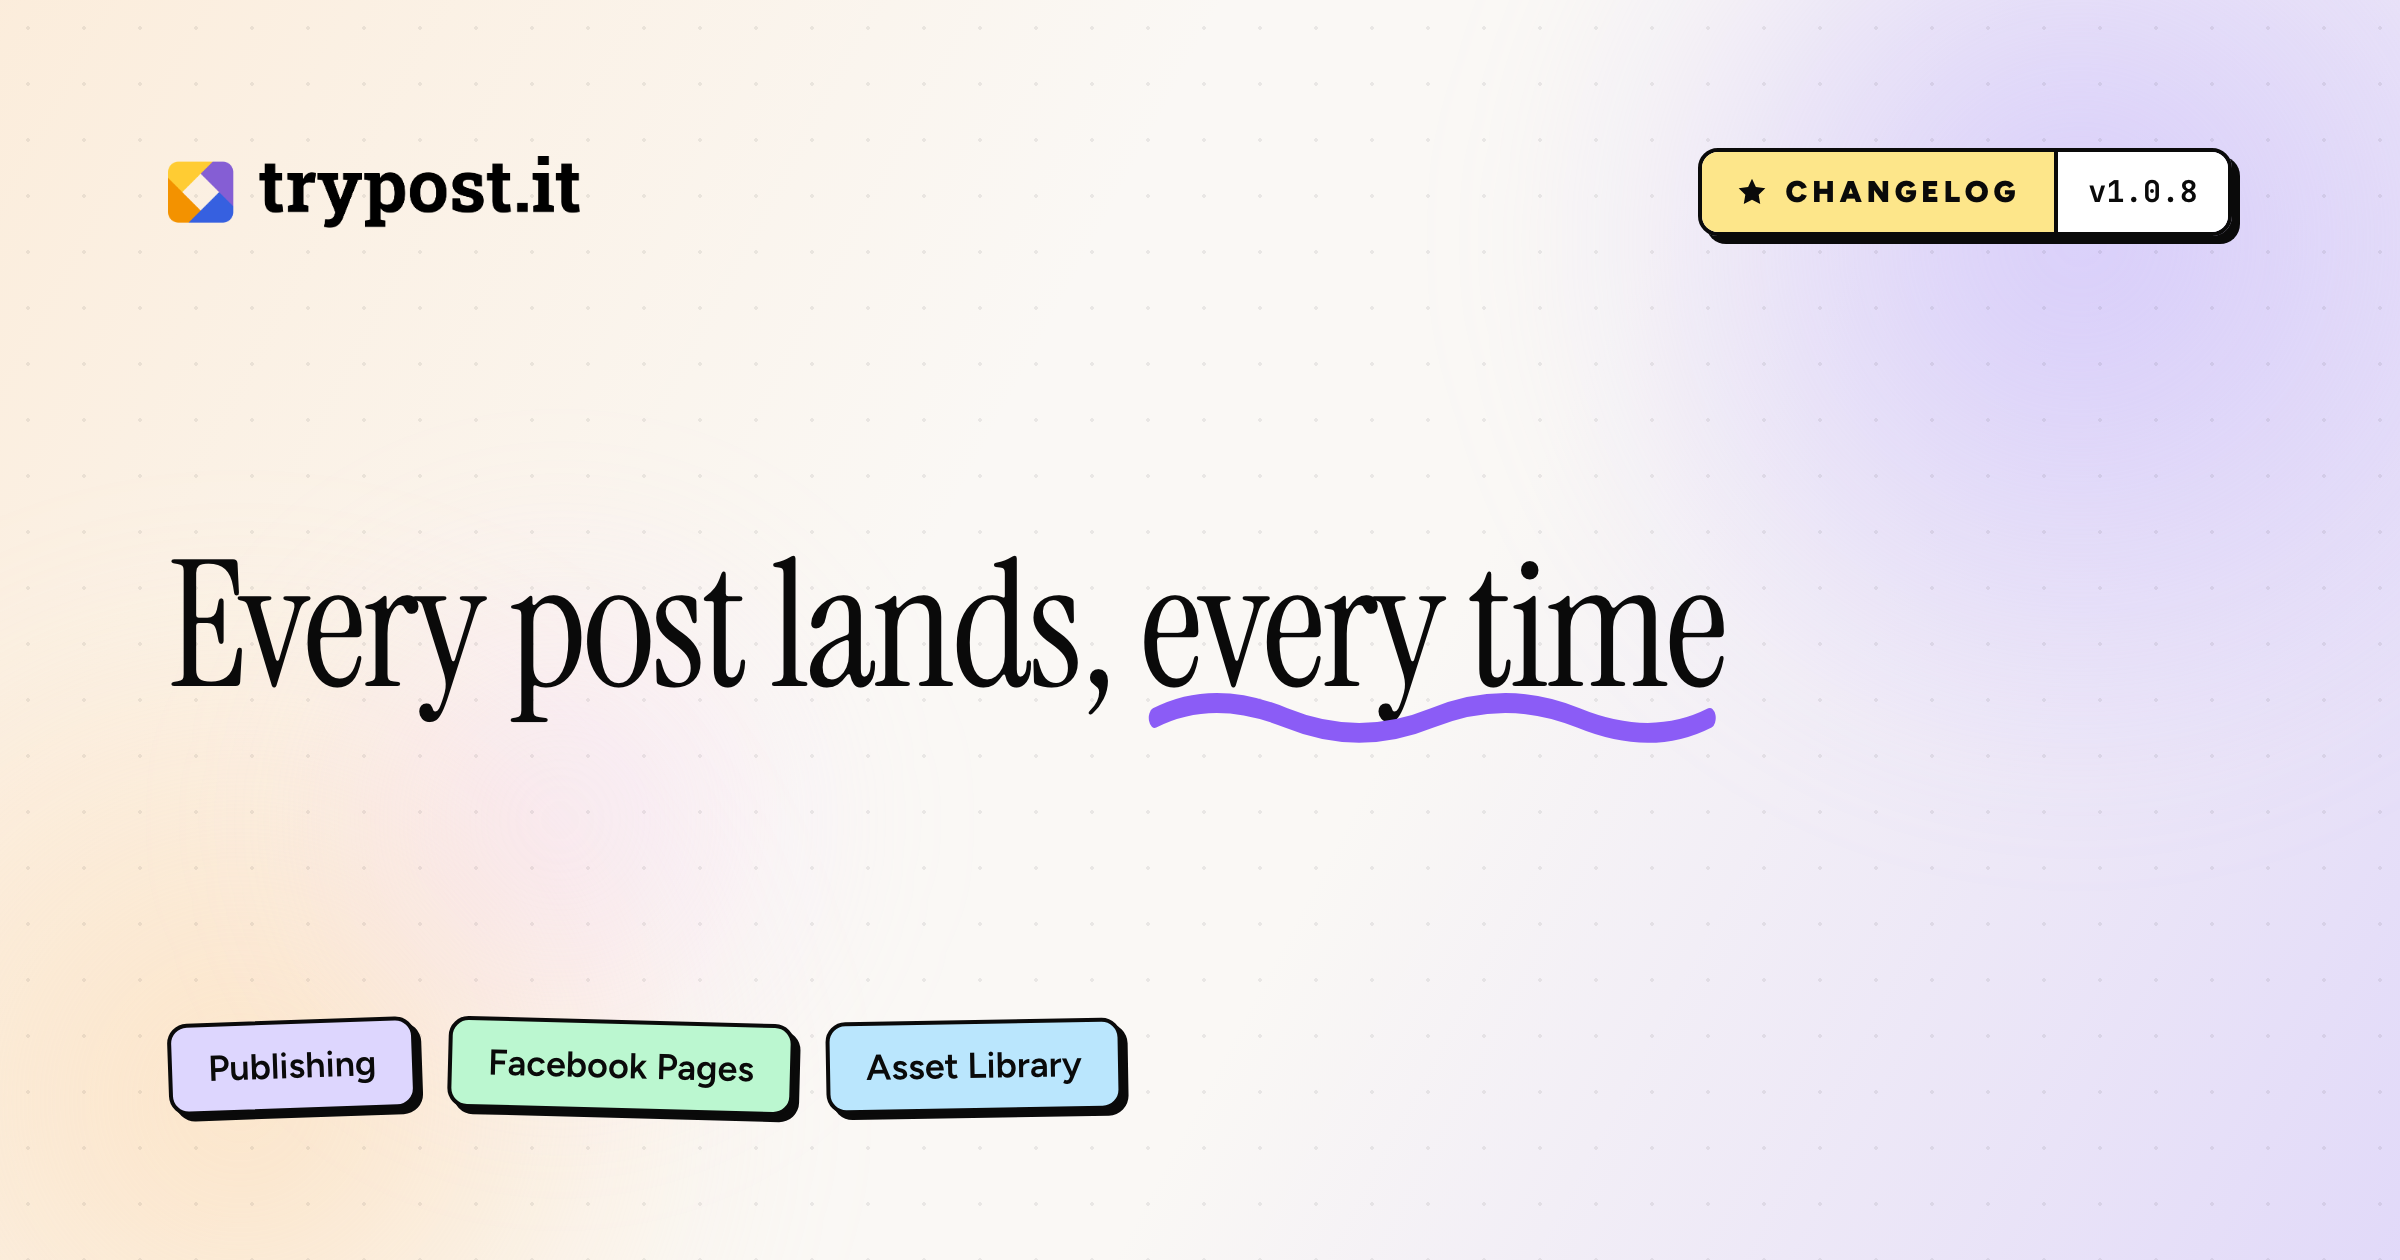
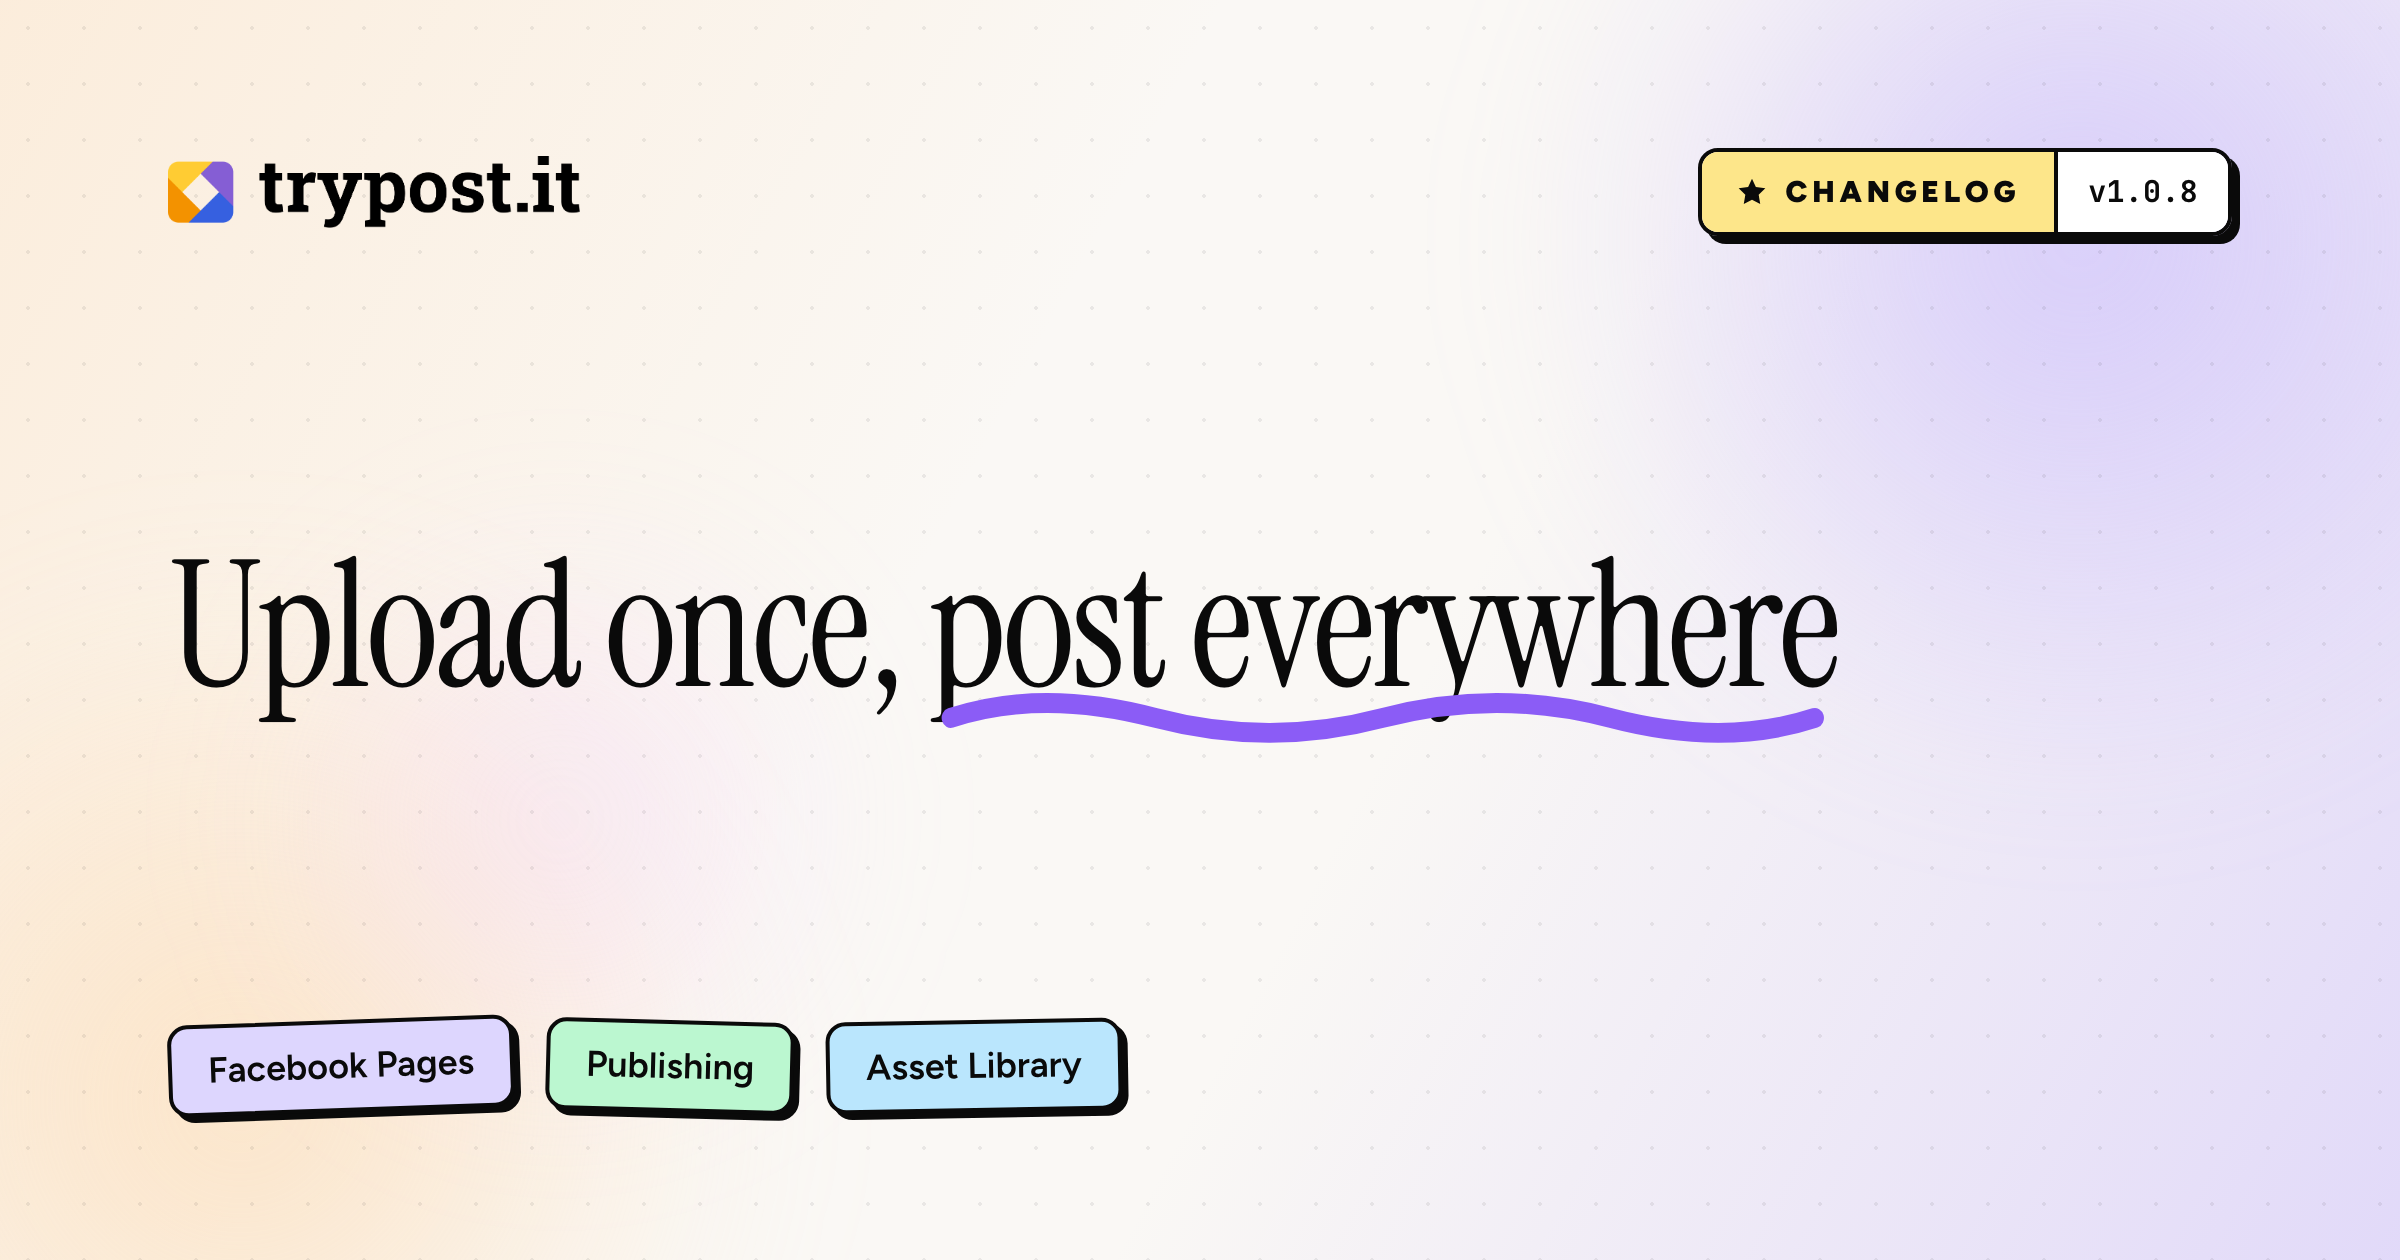
chore(release): sharpen the v1.0.8 email and encode the rules in /release
The subject and section headers named areas (Facebook Pages, Asset
Library) instead of what got better, so a subscriber could not tell
from the inbox what the release did for them.

- Lead on the widest-reach change (Business Portfolio Pages) rather
  than the newest one, and match the section order to the subject
- Say plainly that Asset Library reuse is new for the API and MCP
  only, since the in-app path already worked
- Drop the four bullets that repeated a theme section verbatim
- Reorder the thumbnail chips to follow the sections

.claude/commands/release.md carries the same rules so the next release
starts there: subject pattern, ordering by reach, the already-existed-
in-app trap, header wording, and no duplication between prose and lists.

Changed region(s): [[0.0625, 0.4333, 0.7812, 0.5881], [0.0938, 0.8048, 0.3125, 0.8976]]

diff --git a/.claude/commands/release.md b/.claude/commands/release.md
@@ -90,24 +90,24 @@ Read the commits only as **internal source material**. Translate to user-facing 
 
 ```markdown
 ---
-subject: "Changelog <version> — <theme 1>, <theme 2>, <theme 3>..."
+subject: "Changelog <version> — <improvement 1>, <improvement 2> and more..."
 ---
 
-# Changelog <version> — <theme 1>, <theme 2>, <theme 3>...
+# Changelog <version> — <improvement 1>, <improvement 2> and more...
 
 By TryPost Product Team • [Release <version>](https://github.com/<OWNER>/<REPO>/releases/tag/<version>)
 
 Hello! Welcome to this week's update. Here's what's new in TryPost.
 
-## <Theme 1>
+## <Outcome the reader gets, or the symptom that is gone>
 
-<2-4 sentences of concrete narrative — what changed, why a user should care, what they'll notice. No marketing puffery.>
+<2-4 sentences of concrete narrative — what changed, why a user should care, what they'll notice. Open on what the reader experienced ("you may have watched it go out twice"), not on the internal cause. No marketing puffery.>
 
-## <Theme 2>
+## <second outcome>
 
 <same>
 
-## <Theme 3 — only if there are genuinely 3 themes worth of work>
+## <third outcome — only if there are genuinely 3 themes worth of work>
 
 <same>
 
@@ -134,6 +134,17 @@ You're receiving this because you subscribed.
 
 **Always end with the unsubscribe footer** — the `---` separator, the "You're receiving this because you subscribed." line, and an `[Unsubscribe]({{unsubscribe_url}})` link below the signature. Keep `{{unsubscribe_url}}` as a literal placeholder; the email sending tool fills it in. This footer is required on every customer email.
 
+#### Section headers
+
+A theme header names the outcome the reader gets or the symptom that is gone. Sentence case. It has to make sense to someone who never saw the bug report.
+
+- ❌ `## Publishing that finishes what it started` (writerly; says nothing concrete)
+- ❌ `## Your Asset Library, from anywhere` (area label dressed up)
+- ✅ `## Your long videos stop posting twice`
+- ✅ `## The Facebook Pages that wouldn't connect`
+
+**Section order must match the subject order.** The subject promises a sequence. A reader who opens on a different topic than the one that got them to click feels the mismatch even if they can't name it.
+
 #### Theme grouping (AI clusters by user impact)
 
 Read all commits since the last tag and cluster into **2-3 user-facing themes**. Use whatever frame makes the changes feel coherent to a customer, not to a developer.
@@ -152,6 +163,10 @@ Read all commits since the last tag and cluster into **2-3 user-facing themes**.
 
 If there are fewer than 3 themeable groups, use 2 or just 1. Don't pad. Internal-only changes (chore, CI, refactor, deps) usually shouldn't appear at all — fold the user-visible ones into "Fixes" with a user-voice rewrite, drop the rest.
 
+**Order themes by reach, not by newness.** The first theme goes to whatever the largest share of subscribers will actually feel. A fix that unblocks a whole platform for everyone who uses it outranks a feature only integrators can reach, even though the feature is the newer work. Rank by how many people were affected.
+
+**Check who a theme really reaches before you headline it.** Exposing an existing in-app capability over the API or MCP is new for integrators only — everyone else already had it in the UI. Headlining it as if the capability itself were new misleads the majority. Either qualify the section in its first sentence ("If you build against the TryPost API or connect an AI assistant...") and say plainly that the in-app path already worked, or demote it under a theme with broader reach.
+
 #### Bullet rules for "New features" / "Fixes"
 
 Rewrite each item in **user voice**, not commit voice:
@@ -167,13 +182,25 @@ Rewrite each item in **user voice**, not commit voice:
 
 If a commit has no user-visible effect, **omit it**. Don't pad the email.
 
+**Never repeat a theme section in the bullets.** "New features" and "Fixes" are for what did *not* earn its own section. If duplicate Instagram posts got three paragraphs above, they don't also get a bullet — the reader meets the same fact twice and the lists stop being scannable. Write the sections first, then list only what is left over.
+
 #### Subject line
 
-Pattern: `Changelog <version> — <theme 1>, <theme 2>, <theme 3>...`
+Pattern: `Changelog <version> — <improvement 1>, <improvement 2> and more...`
 
-Don't put "TryPost" in the subject — the email already comes from the TryPost sender, so it's redundant.
+Each slot must name **what got better for the reader**, never the area it happened in. The area is where the work landed; the improvement is what they can now do, or what stopped hurting. A subject built from area labels tells a customer nothing — they already know TryPost has an Asset Library.
 
-Cap around 80 chars. If themes don't fit, shorten to the 2 most impactful + "and more...".
+- ❌ `Changelog v1.0.8 — Publishing that finishes, Facebook Pages, Asset Library` (a writerly abstraction plus two bare area labels)
+- ❌ `Changelog v1.0.8 — No duplicate posts, Facebook Pages that connect` (still abstract: "no duplicate posts" reads like a new dedup feature rather than a fix, and the second half is awkward)
+- ✅ `Changelog v1.0.8 — Facebook Pages finally connect, reuse your media and more...`
+
+Rules:
+
+- **Two named improvements plus `and more...` beats three cramped ones.** The trailing `and more...` carries the rest of the release and buys the two named slots enough room to be specific.
+- **The first slot goes to the widest reach.** Same ranking as the themes: most subscribers affected wins, even when that is a bug fix and the release also shipped a shiny feature.
+- Plain words like `finally`, `stop`, `no longer` are good — they read as an honest founder, not a marketer.
+- Don't put "TryPost" in the subject — the email already comes from the TryPost sender, so it's redundant.
+- Cap around 80 chars.
 
 ### Step 5 — Humanize the email prose
 
@@ -199,7 +226,7 @@ Derive these inputs from the release. The **headline and the chips play differen
   - ❌ `Your language, mobile, and per-image alt text` (this is just the chip labels)
   - ✅ `Speak every language, reach every reader` (benefit-driven, distinct from the chips)
 - **underline** — a short emphasis phrase *inside* the headline (1-3 words) to carry the hand-drawn violet squiggle, usually the last / most important phrase (e.g. `every reader`). Must appear in the headline verbatim. Optional; omit for no squiggle.
-- **themes** — 2-4 short chip labels naming the concrete areas that shipped, condensed to 1-2 words each (e.g. `Languages`, `Mobile`, `Alt text & previews`). These are secondary supporting labels, rendered smaller than the headline; the template auto-colors them (violet / green / sky / orange / rose, in order). Keep them concrete and distinct from the headline's wording.
+- **themes** — 2-4 short chip labels naming the concrete areas that shipped, condensed to 1-2 words each (e.g. `Languages`, `Mobile`, `Alt text & previews`). These are secondary supporting labels, rendered smaller than the headline; the template auto-colors them (violet / green / sky / orange / rose, in order). Keep them concrete and distinct from the headline's wording. **Order the chips to match the email's section order**, so the image and the email tell the story in the same sequence. Chips are the one place a bare area label is correct: the headline sells the benefit, the chips name where it landed.
 
 Create the directory and render the thumbnail so the user can preview it before confirming:
 

diff --git a/releases/v1.0.8/email.md b/releases/v1.0.8/email.md
@@ -1,46 +1,43 @@
 ---
-subject: "Changelog v1.0.8 — Publishing that finishes, Facebook Pages, Asset Library"
+subject: "Changelog v1.0.8 — Facebook Pages finally connect, reuse your media and more..."
 ---
 
-# Changelog v1.0.8 — Publishing that finishes, Facebook Pages, Asset Library
+# Changelog v1.0.8 — Facebook Pages finally connect, reuse your media and more...
 
 By TryPost Product Team • [Release v1.0.8](https://github.com/trypostit/trypost/releases/tag/v1.0.8)
 
 Hello! Welcome to this week's update. Here's what's new in TryPost.
 
-## Publishing that finishes what it started
+## The Facebook Pages that wouldn't connect
 
-Instagram and TikTok process video in the background, and sometimes they take longer than one publish attempt can wait around for. That could end badly: the same video posted twice, or a TikTok marked as done before TikTok had actually finished with it.
+If you administer a Facebook Page through a Business Portfolio rather than holding a direct role on the Page itself, which is how most Pages work these days, TryPost used to tell you it found no Pages at all. It was asking Facebook the wrong question. It now checks your Business Portfolio too, so those Pages show up in the picker with the rest.
 
-TryPost now saves its place. A retry picks up the upload already in progress instead of starting a second one, and Instagram waits for the platform to confirm the post is ready before publishing it. Threads had a cousin of this bug, where media reports as missing for a second or two right after processing; we retry that now instead of giving up. Bluesky also checks in less often during long transcodes.
+The connect window also stopped guessing when it can't offer you a Page. It tells you which of the four things happened: you have no Pages, you have Pages you can't post to, you declined a permission we need, or we couldn't finish reading the list.
 
-## The Facebook Pages you couldn't connect
+## Your long videos stop posting twice
 
-If you administer a Facebook Page through a Business Portfolio instead of holding a direct role on the Page itself, which is how most Pages work these days, TryPost used to tell you it found no Pages at all. It was asking Facebook the wrong question.
+If you sent a long video to Instagram or TikTok, you may have watched it go out twice, or seen TikTok report the post as done before the upload had actually finished. Both platforms process video in the background, and that takes longer than one publish attempt waits around for.
 
-It now checks your Business Portfolio too, so those Pages turn up in the picker with the rest. The connect window is also more honest when it comes up short: it tells you whether you have no Pages, Pages you can't post to, a permission you declined, or a list we couldn't finish reading.
+TryPost now saves its place. When a publish gets retried, it picks up the upload already in progress instead of starting a second one, so nothing goes out twice. Instagram waits for confirmation that the post is ready before publishing it. Threads had a cousin of this bug, where media reports as missing for a second or two right after it uploads fine; we retry that now instead of giving up.
 
-## Your Asset Library, from anywhere
+## Reuse your media over the API
 
-Your workspace's Asset Library is now reachable over the API and through AI assistants connected to TryPost. You can list what's in there, preview a file, and attach something you've already uploaded to a draft or scheduled post. You don't have to re-upload a file you gave us last month.
+If you build against the TryPost API or connect an AI assistant to your workspace, your Asset Library is now reachable from both. You can list what's in there, preview a file, and attach it to a draft or scheduled post without uploading the same image a second time. Inside the app this already worked; now your integrations get it too.
 
 ## New features
 
-- Browse, preview, and attach Asset Library files over the API and via connected AI assistants
 - Connect your first social account during signup, before you reach checkout
+- Browse, preview, and attach Asset Library files over the API and through connected AI assistants
 - Self-hosted: connect more than one account per network by setting `ALLOW_MULTIPLE_SOCIAL_ACCOUNTS`
 - Self-hosted: search now works on MySQL as well as PostgreSQL
 
 ## Fixes
 
-- Instagram and TikTok publishes no longer duplicate or report success early when the platform is slow
-- Threads posts no longer fail when media briefly reports as missing right after processing
-- Facebook Pages reached through a Business Portfolio now appear when connecting
-- Pinterest rejections explain that the site doesn't allow saving Pins, instead of showing raw error data
-- The "view on LinkedIn" link on company page posts now opens the post
-- X connections refresh before the token expires rather than after, so they stop dropping out
-- AI post generation no longer misses the start of what it's writing
-- The MCP settings page no longer errors for a client that has never connected
+- Pinterest now tells you the site doesn't allow saving Pins, instead of showing raw error data
+- "View on LinkedIn" on a company page post opens the post itself, not the page's list of posts
+- Your X connection stops quietly dropping out and asking to be reconnected
+- AI post generation no longer misses the first few words it writes
+- The MCP settings page no longer errors out if you've never connected a client
 - Self-hosted: OpenRouter works as the AI provider again
 
 ## One thing we removed
